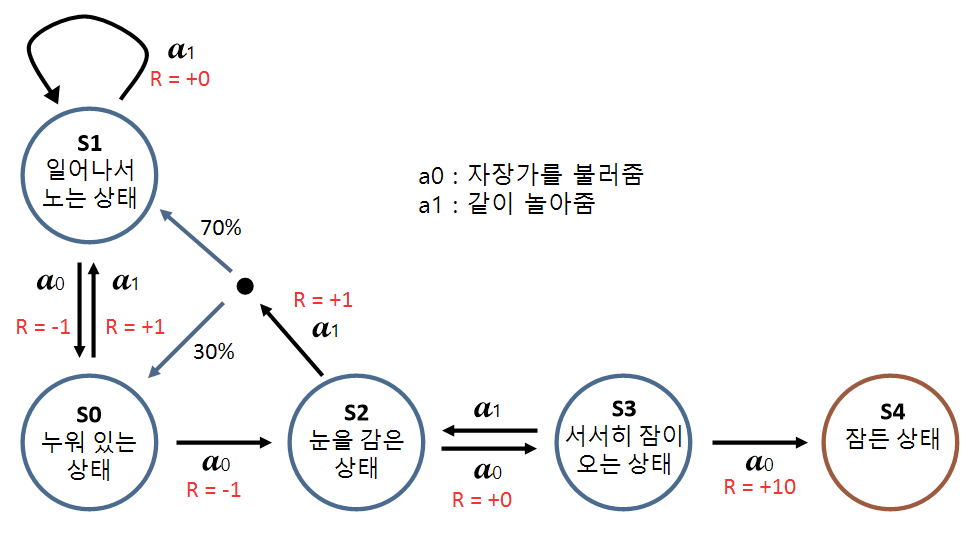
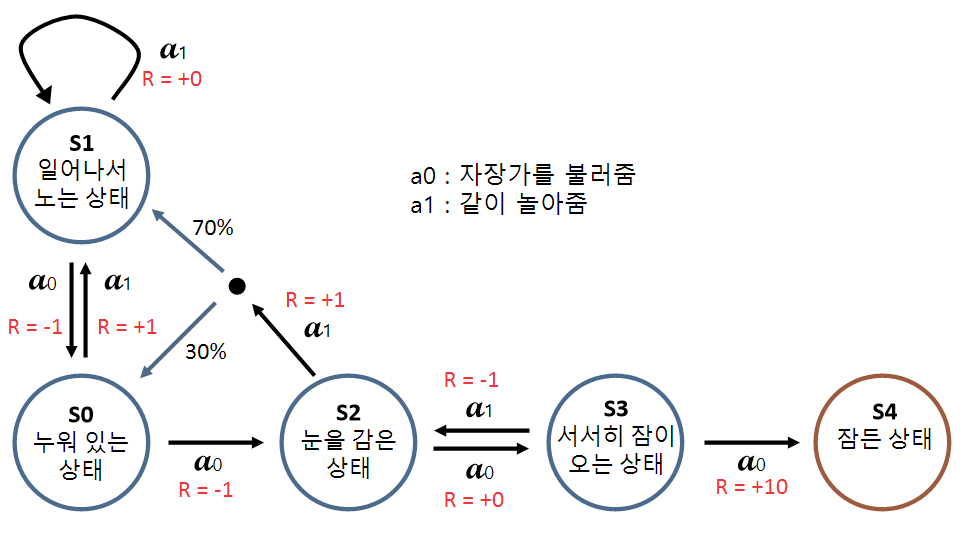
Update: images in mdp

diff --git a/rlboard/play_mdp_transition.js b/rlboard/play_mdp_transition.js
@@ -17,7 +17,7 @@ class MDP_Transition extends MDP {
         // draw background image
         let img = new Image();
         img.src = "../img/mdp/transition.PNG"
-        this.context.drawImage(img, 0, 50);
+        this.context.drawImage(img, 8, 50);
 
         // draw title text
         this.context.fillStyle = "#e7326b";

diff --git a/rlboard/play_mdp_action.js b/rlboard/play_mdp_action.js
@@ -17,7 +17,7 @@ class MDP_Action extends MDP {
         // draw background image
         let img = new Image();
         img.src = "../img/mdp/action.PNG"
-        this.context.drawImage(img, 0, 50);
+        this.context.drawImage(img, 8, 50);
 
         // draw title text
         this.context.fillStyle = "#e7326b";
